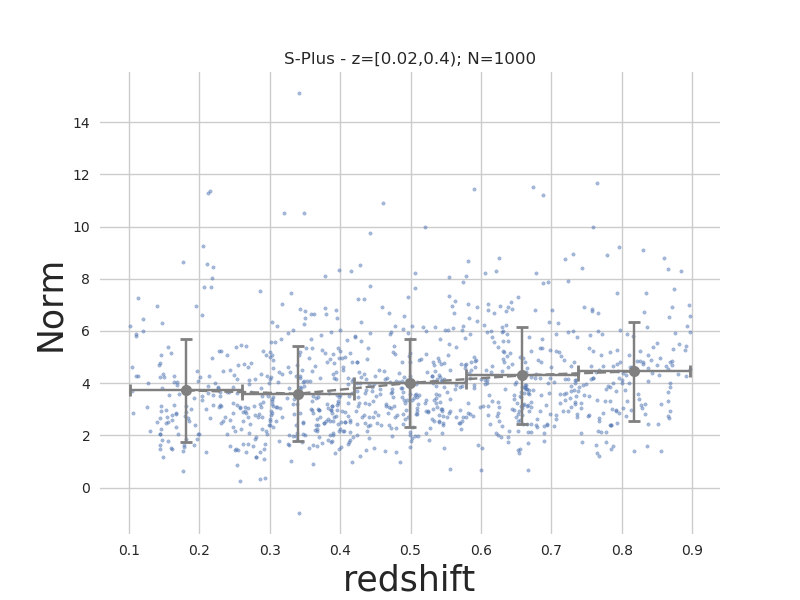
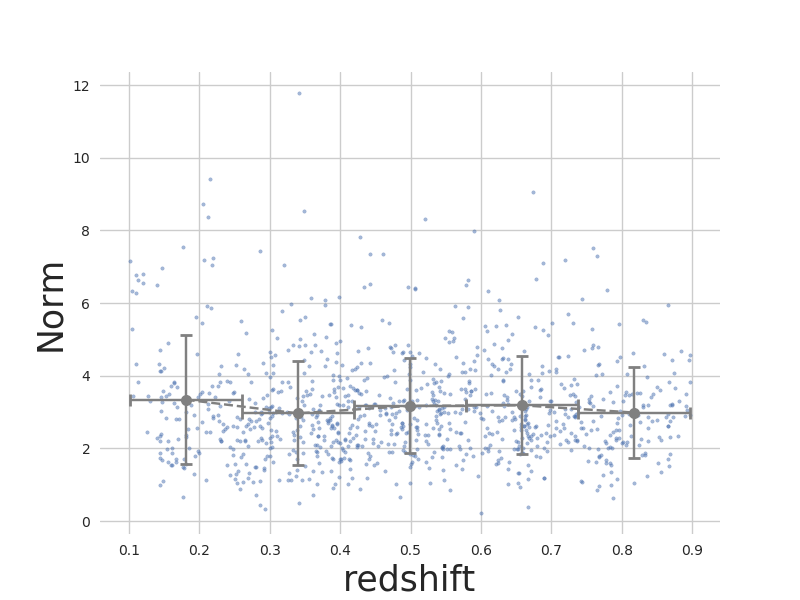
upgrades

diff --git a/controlPlots/make_web_page_plots.py b/controlPlots/make_web_page_plots.py
@@ -9,15 +9,18 @@ from astropy.table import Table, vstack
 from astropy.io.fits import getdata
 import matplotlib.pyplot as plt
 #import pandas as pd
-#import seaborn as sns; sns.set(color_codes=True)
+import seaborn as sns; sns.set(color_codes=True)
 
 from myPlots import *
 
 plt.rcParams.update({'font.size': 16})
-# sns.set_style("whitegrid")
+sns.set_style("whitegrid")
 
 def plot_scatter_hist(x,y,weights=None,xtrue=None,ytrue=None,xlabel='redshift',ylabel=r'$\mu_{\star}\,\,[10^{12}\,M_{\odot}]$',save='./img/bla.png'):
     compare = (xtrue is not None) and (ytrue is not None)
+    
+    if weights is not None:scale = 100*weights**(1/2)+1
+    else: scale=50
 
     fig = plt.figure(figsize=(12,10))
 
@@ -48,26 +51,26 @@ def plot_scatter_hist(x,y,weights=None,xtrue=None,ytrue=None,xlabel='redshift',y
     binx = np.linspace(0.0, xmax, num=50)
     biny = np.linspace(ymin, ymax, num=105)  # 1500/100.
 
-    # pal = sns.dark_palette("#3498db", as_cmap=True)
+    pal = sns.dark_palette("#3498db", as_cmap=True)
     # sns.kdeplot(x, y, ax=scatter_axes, cmap=pal, zorder=3)  # n_levels=10
 
     scatter_axes.set_xlabel(xlabel, fontsize=25)
     scatter_axes.set_ylabel(ylabel, fontsize=25)
 
-    scatter_axes.plot(x, y, s=, color='b', ls='', marker='o', alpha=0.25, zorder=0)
+    scatter_axes.scatter(x, y, s=scale, color='b', marker='o', alpha=0.25, zorder=0)
     scatter_axes.axhline(np.mean(y),linestyle='--',color='b')
 
-    x_hist_axes.hist(x, bins=binx, normed=False, alpha=0.85, color='b')
-    y_hist_axes.hist(y, bins=biny, normed=False, orientation='horizontal', alpha=0.85, color='b')
-    y_hist_axes.axhline(np.mean(y),linestyle='--',orientation='horizontal', color='b')
+    x_hist_axes.hist(x, bins=binx, weights=weights, normed=False, alpha=0.85, color='b')
+    y_hist_axes.hist(y, bins=biny, weights=weights, normed=False, orientation='horizontal', alpha=0.85, color='b')
+    y_hist_axes.axhline(np.mean(y),linestyle='--', color='b')
 
     if compare:
-        scatter_axes.plot(xtrue,ytrue, color='gray', ls='', marker='.', alpha=0.35, zorder=1)
+        scatter_axes.scatter(xtrue,ytrue, s=25, color='gray', marker='o', alpha=0.35, zorder=1)
         scatter_axes.axhline(np.mean(ytrue),linestyle='--',color='gray')
 
         x_hist_axes.hist(xtrue, bins=binx, color='gray', histtype='stepfilled', alpha=0.65, normed=False)
         y_hist_axes.hist(ytrue, bins=biny, color='gray', histtype='stepfilled', alpha=0.65, normed=False,orientation='horizontal')
-        y_hist_axes.axhline(np.mean(ytrue),linestyle='--',color='gray',orientation='horizontal')
+        y_hist_axes.axhline(np.mean(ytrue),linestyle='--',color='gray')
 
     x_hist_axes.set_yticklabels([])
     y_hist_axes.set_xticklabels([])
@@ -163,7 +166,7 @@ def makeBin(variable, nbins=10., xvec=None):
 
     return idx, xbins
 
-def get_binned_variables(x,xedges=None):
+def get_binned_variables(x,y,xedges=None):
     
     if xedges is None:
         xedges = np.linspace(np.nanmin(x),np.nanmax(x),6)
@@ -225,8 +228,8 @@ compareDatasets = True
 ii=0
 print('Geting Data')
 
-file_gal = './out/Chinchilla-0Y1a_v1.6_truth_50_ccopa_pz_005_Rfixed_members_stellarMass.fits'
-file_cls = './out/Chinchilla-0Y1a_v1.6_truth_50_ccopa_pz_005_Rfixed_stellarMass.fits' 
+file_gal = './out/Chinchilla-0Y1a_v1.6_truth_1000_highMass_ccopa_pz_005_Rfixed_members_stellarMass.fits'
+file_cls = './out/Chinchilla-0Y1a_v1.6_truth_1000_highMass_ccopa_pz_005_Rfixed_stellarMass.fits' 
 
 # file_gal = '/home/johnny/Documents/Github/ccopa/out/splus_STRIPE82_master_DR2_SN_10_galaxyClusters_pmem_members_stellarMass.fits'
 # file_cls = '/home/johnny/Documents/Github/ccopa/out/splus_STRIPE82_master_DR2_SN_10_galaxyClusters_pmem_stellarMass.fits'
@@ -251,9 +254,9 @@ MU = cat['MU']
 sum_ssfr = cat['SSFR']
 sum_smass = cat['SUM_MASS']
 
-Nred = cat['Nred']
-Nblue = cat['Nblue']
-red_fraction = Nred/(Nred+Nblue)
+# Nred = cat['Nred']
+# Nblue = cat['Nblue']
+# red_fraction = Nred/(Nred+Nblue)
 
 # richness = cat['richness'][:]*1e3
 # sn = cat['sn'][:]
@@ -263,8 +266,8 @@ plot_group_by_redshift(redshift, ngals, ylog=False, ylabel = r'N$_{gals}$', xlab
 plot_group_by_redshift(redshift, norm, ylog=False, ylabel = r'Norm', xlabel = r'redshift', save='./img/redshift_norm.png')
 plot_group_by_redshift(redshift, nbkg, ylim=(0.,100.),ylog=False, ylabel = r'N$_{bkg}$', xlabel = r'redshift', save='./img/redshift_nbkg.png')
 
-w, = np.where(red_fraction>=0.)
-plot_group_by_redshift(redshift[w], red_fraction[w], ylog=False, ylabel = r'$f_{red}$', xlabel = r'redshift', save='./img/redshift_nred.png')
+# w, = np.where(red_fraction>=0.)
+# plot_group_by_redshift(redshift[w], red_fraction[w], ylog=False, ylabel = r'$f_{red}$', xlabel = r'redshift', save='./img/redshift_nred.png')
 # plot_lin_reg(ngals,richness,xlabel = r'N$_{gals}$', ylabel = r'richness [1e-3]', save='./img/richness_ngals.png')
 # plot_lin_reg(ngals,sn, xlabel = r'N$_{gals}$', ylabel = r'SN', save='./img/sn_ngals.png')
 
@@ -294,11 +297,11 @@ gr = mag_g - mag_r
 ri = mag_r - mag_i
 iz = mag_i - mag_z
 
-# mask = gal['True']==True
+mask = gal['True']==True
 
-plot_scatter_hist(zcls,amag,weights=pmem,ylabel=r'$M_{r}$',save='./img/amag_evolution.png')
-plot_scatter_hist(zcls,smass,weights=pmem, ylabel=r'$log(M_{*}) \: [M_{\odot}]$',save='./img/smass_evolution.png')
-plot_scatter_hist(zcls,ssfr,weights=pmem, ylabel=r'$log(sSFR)$', save='./img/ssfr_evolution.png')
-plot_scatter_hist(zcls,gi_o,weights=pmem, ylabel=r'$(g-i)_{rest-frame}$', save='./img/gi_rest_frame_evolution.png')
+plot_scatter_hist(zcls,amag,weights=pmem, xtrue=zcls[mask], ytrue=amag[mask], ylabel=r'$M_{r}$',save='./img/amag_evolution.png')
+plot_scatter_hist(zcls,smass,weights=pmem, xtrue=zcls[mask], ytrue=smass[mask], ylabel=r'$log(M_{*}) \: [M_{\odot}]$',save='./img/smass_evolution.png')
+plot_scatter_hist(zcls,ssfr,weights=pmem, xtrue=zcls[mask], ytrue=ssfr[mask], ylabel=r'$log(sSFR)$', save='./img/ssfr_evolution.png')
+plot_scatter_hist(zcls,gi_o,weights=pmem, xtrue=zcls[mask], ytrue=gi_o[mask], ylabel=r'$(g-i)_{rest-frame}$', save='./img/gi_rest_frame_evolution.png')
 
 print('fim')

diff --git a/copa/membAssignment.py b/copa/membAssignment.py
@@ -298,7 +298,7 @@ def clusterCalc(gal, cat, member_outfile=None, cluster_outfile=None,
     galCut['redshift'][gidx] = cat['redshift'][cidx]
 
     Colnames=['CID', 'redshift', 'GID', 'RA', 'DEC', 'R', 'z', 'zerr', 'mag', 'magerr',
-              'Pr', 'Pz', 'Pc', 'Pmem','FLAG_C','FLAG_Z']
+              'Pr', 'Pz', 'Pc', 'Pmem','FLAG_C','FLAG_Z','pdfs','pdfs_bkg']
 
     if simulation:
         Colnames.append('z_true')
